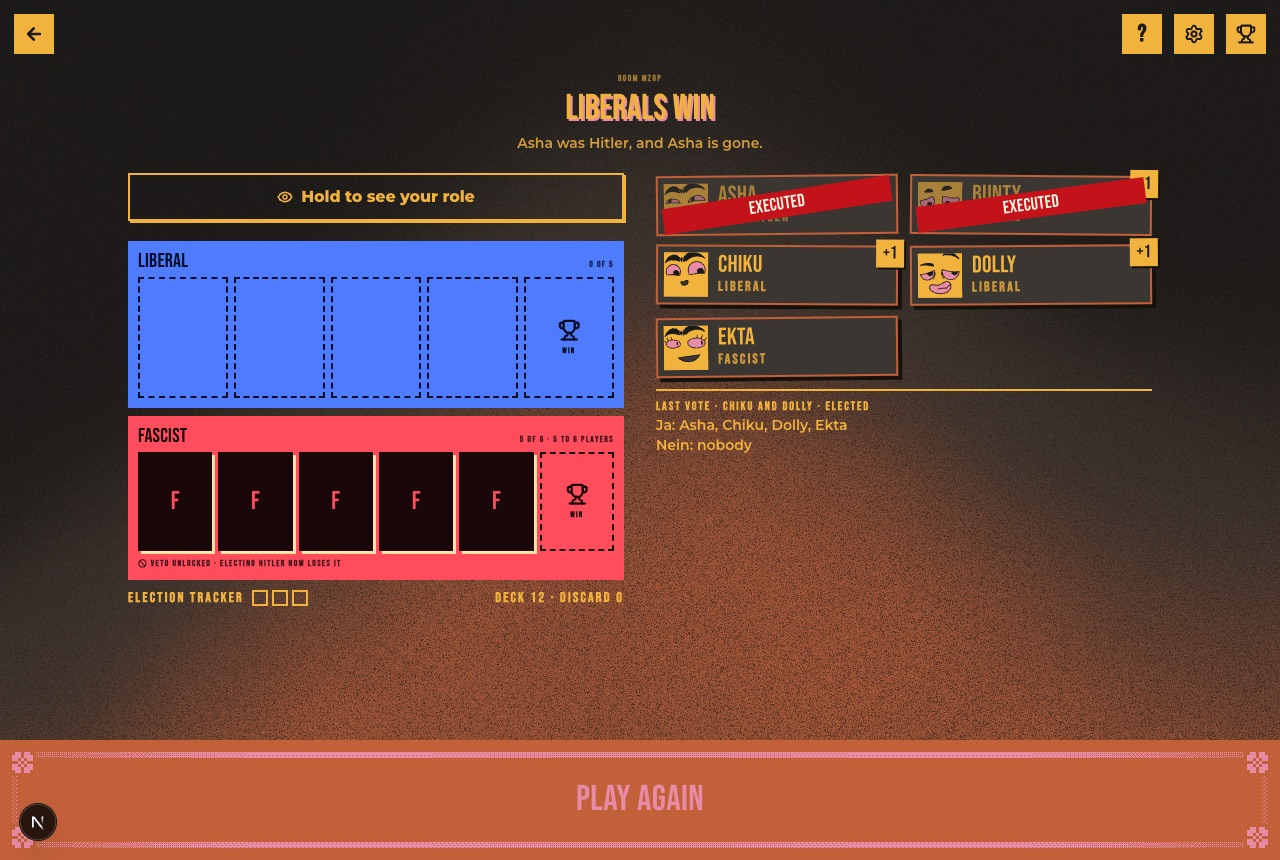
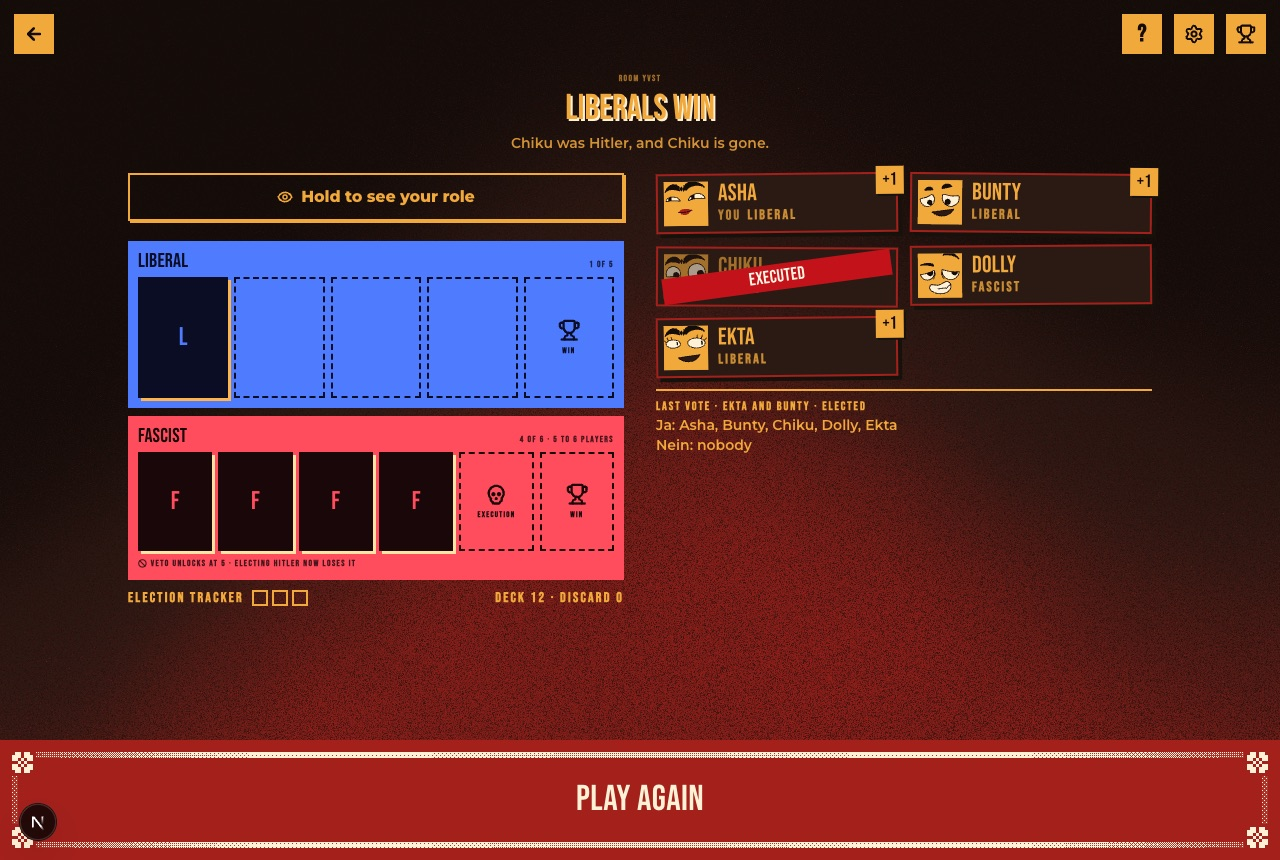
Secret Hitler: ballot palette that reads on the band and share card
Pulp's pink on orange measured 1.73:1 for the CTA text. Ballot is mustard,
cream, deep red and near-black: cream on the deep-red band is 6.77:1, and
every Secret Hitler surface (home card, share card, guide, front door,
room screens) now prints in it. GIF and screenshots re-recorded.

diff --git a/src/app/style/page.tsx b/src/app/style/page.tsx
@@ -499,7 +499,7 @@ export default function StylePage() {
                 ["large", 4, 5, 2, 4, 4],
               ] as const
             ).map(([board, liberal, fascist, tracker, deckCount, discardCount]) => (
-              <div key={board} {...theme("pulp", { flipped: true })} className="p-3">
+              <div key={board} {...theme("ballot", { flipped: true })} className="p-3">
                 <PolicyBoard
                   board={board}
                   liberal={liberal}

diff --git a/src/content/guides.ts b/src/content/guides.ts
@@ -368,7 +368,7 @@ export const GUIDES: Guide[] = [
     title: "How to play Secret Hitler",
     summary:
       "Liberals, Fascists and one secret Hitler. Elect governments, pass policies, and work out who's lying before it's too late. Five to ten players, a phone each, one shared board.",
-    palette: "pulp",
+    palette: "ballot",
     players: "5 to 10",
     time: "About thirty to forty-five minutes a game",
     needs: "A phone each, everyone in the same room",

diff --git a/src/app/page.tsx b/src/app/page.tsx
@@ -87,7 +87,7 @@ export default function Home() {
           more
           href="/secret-hitler/new"
           help="/how-to-play/secret-hitler"
-          palette="pulp"
+          palette="ballot"
           title="Play Secret Hitler"
           tagline="Find Hitler before it's too late."
           image="/backgrounds/secret-hitler.jpg"

diff --git a/src/components/secret-hitler/secret-hitler-app.tsx b/src/components/secret-hitler/secret-hitler-app.tsx
@@ -19,7 +19,7 @@ export function SecretHitlerApp() {
     return (
       <HostOrJoinScreen
         title="Secret Hitler"
-        palette="pulp"
+        palette="ballot"
         rules={<SecretHitlerRules />}
         aside={{ title: "Who's who", body: <ShRoleTable /> }}
         onCreate={(name) => void room.create(name)}

diff --git a/src/lib/palettes.ts b/src/lib/palettes.ts
@@ -113,6 +113,15 @@ const PALETTE_DEFINITIONS = [
     shadow: "#081C14",
   },
   {
+    id: "ballot",
+    name: "Ballot",
+    base: "#F2A93B",
+    highlight: "#FFF1D6",
+    secondary: "#A3201B",
+    primary: "#2B1A14",
+    shadow: "#140C09",
+  },
+  {
     id: "cobalt",
     name: "Cobalt",
     base: "#4F7BFF",

diff --git a/src/content/share-cards.ts b/src/content/share-cards.ts
@@ -46,7 +46,7 @@ export const GAME_SHARE_CARDS = {
   "secret-hitler": {
     title: "Secret Hitler",
     tagline: "Liberals, Fascists and one secret Hitler. A phone each, one shared board.",
-    palette: "pulp",
+    palette: "ballot",
     image: "/backgrounds/secret-hitler.jpg",
   },
   scoreboard: {

diff --git a/src/components/secret-hitler/secret-hitler-room-screen.tsx b/src/components/secret-hitler/secret-hitler-room-screen.tsx
@@ -42,7 +42,7 @@ import {
   type ShPublicRound,
 } from "@shared/protocol";
 
-const PAGE = paletteById("pulp");
+const PAGE = paletteById("ballot");
 const TOAST_MS = 2600;
 
 type ShRoom = RoomStateOf<"secret-hitler">;
